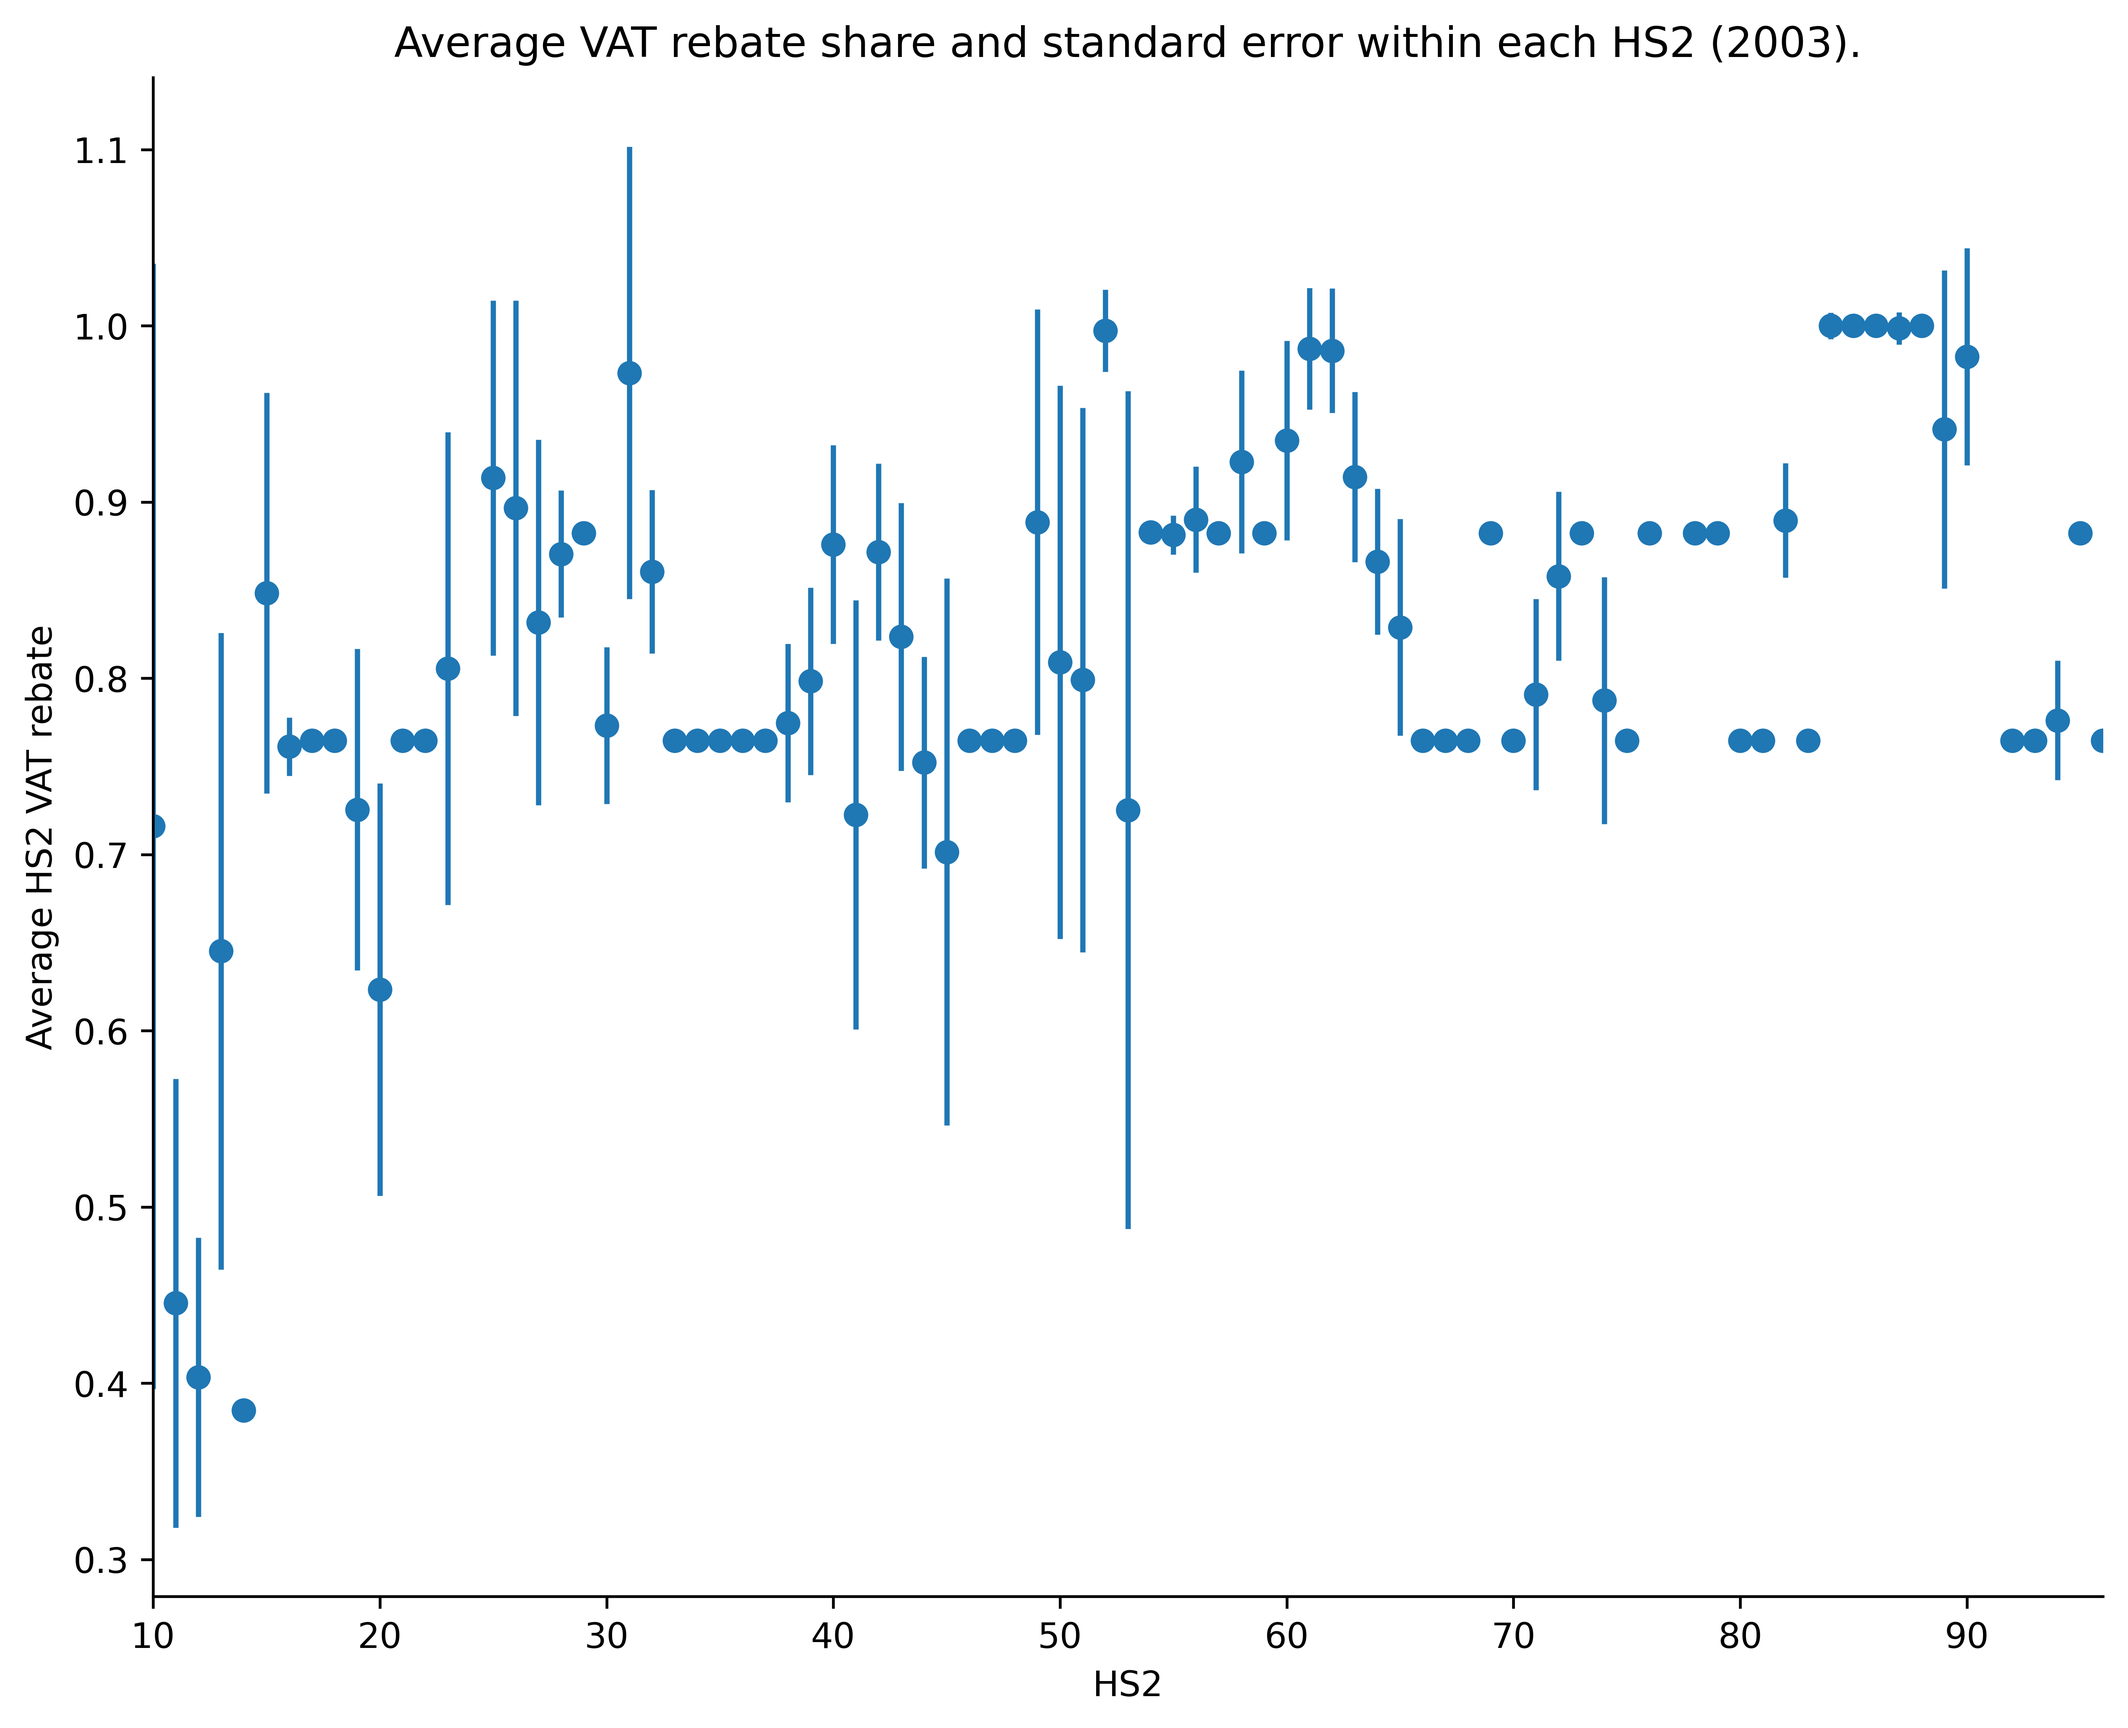
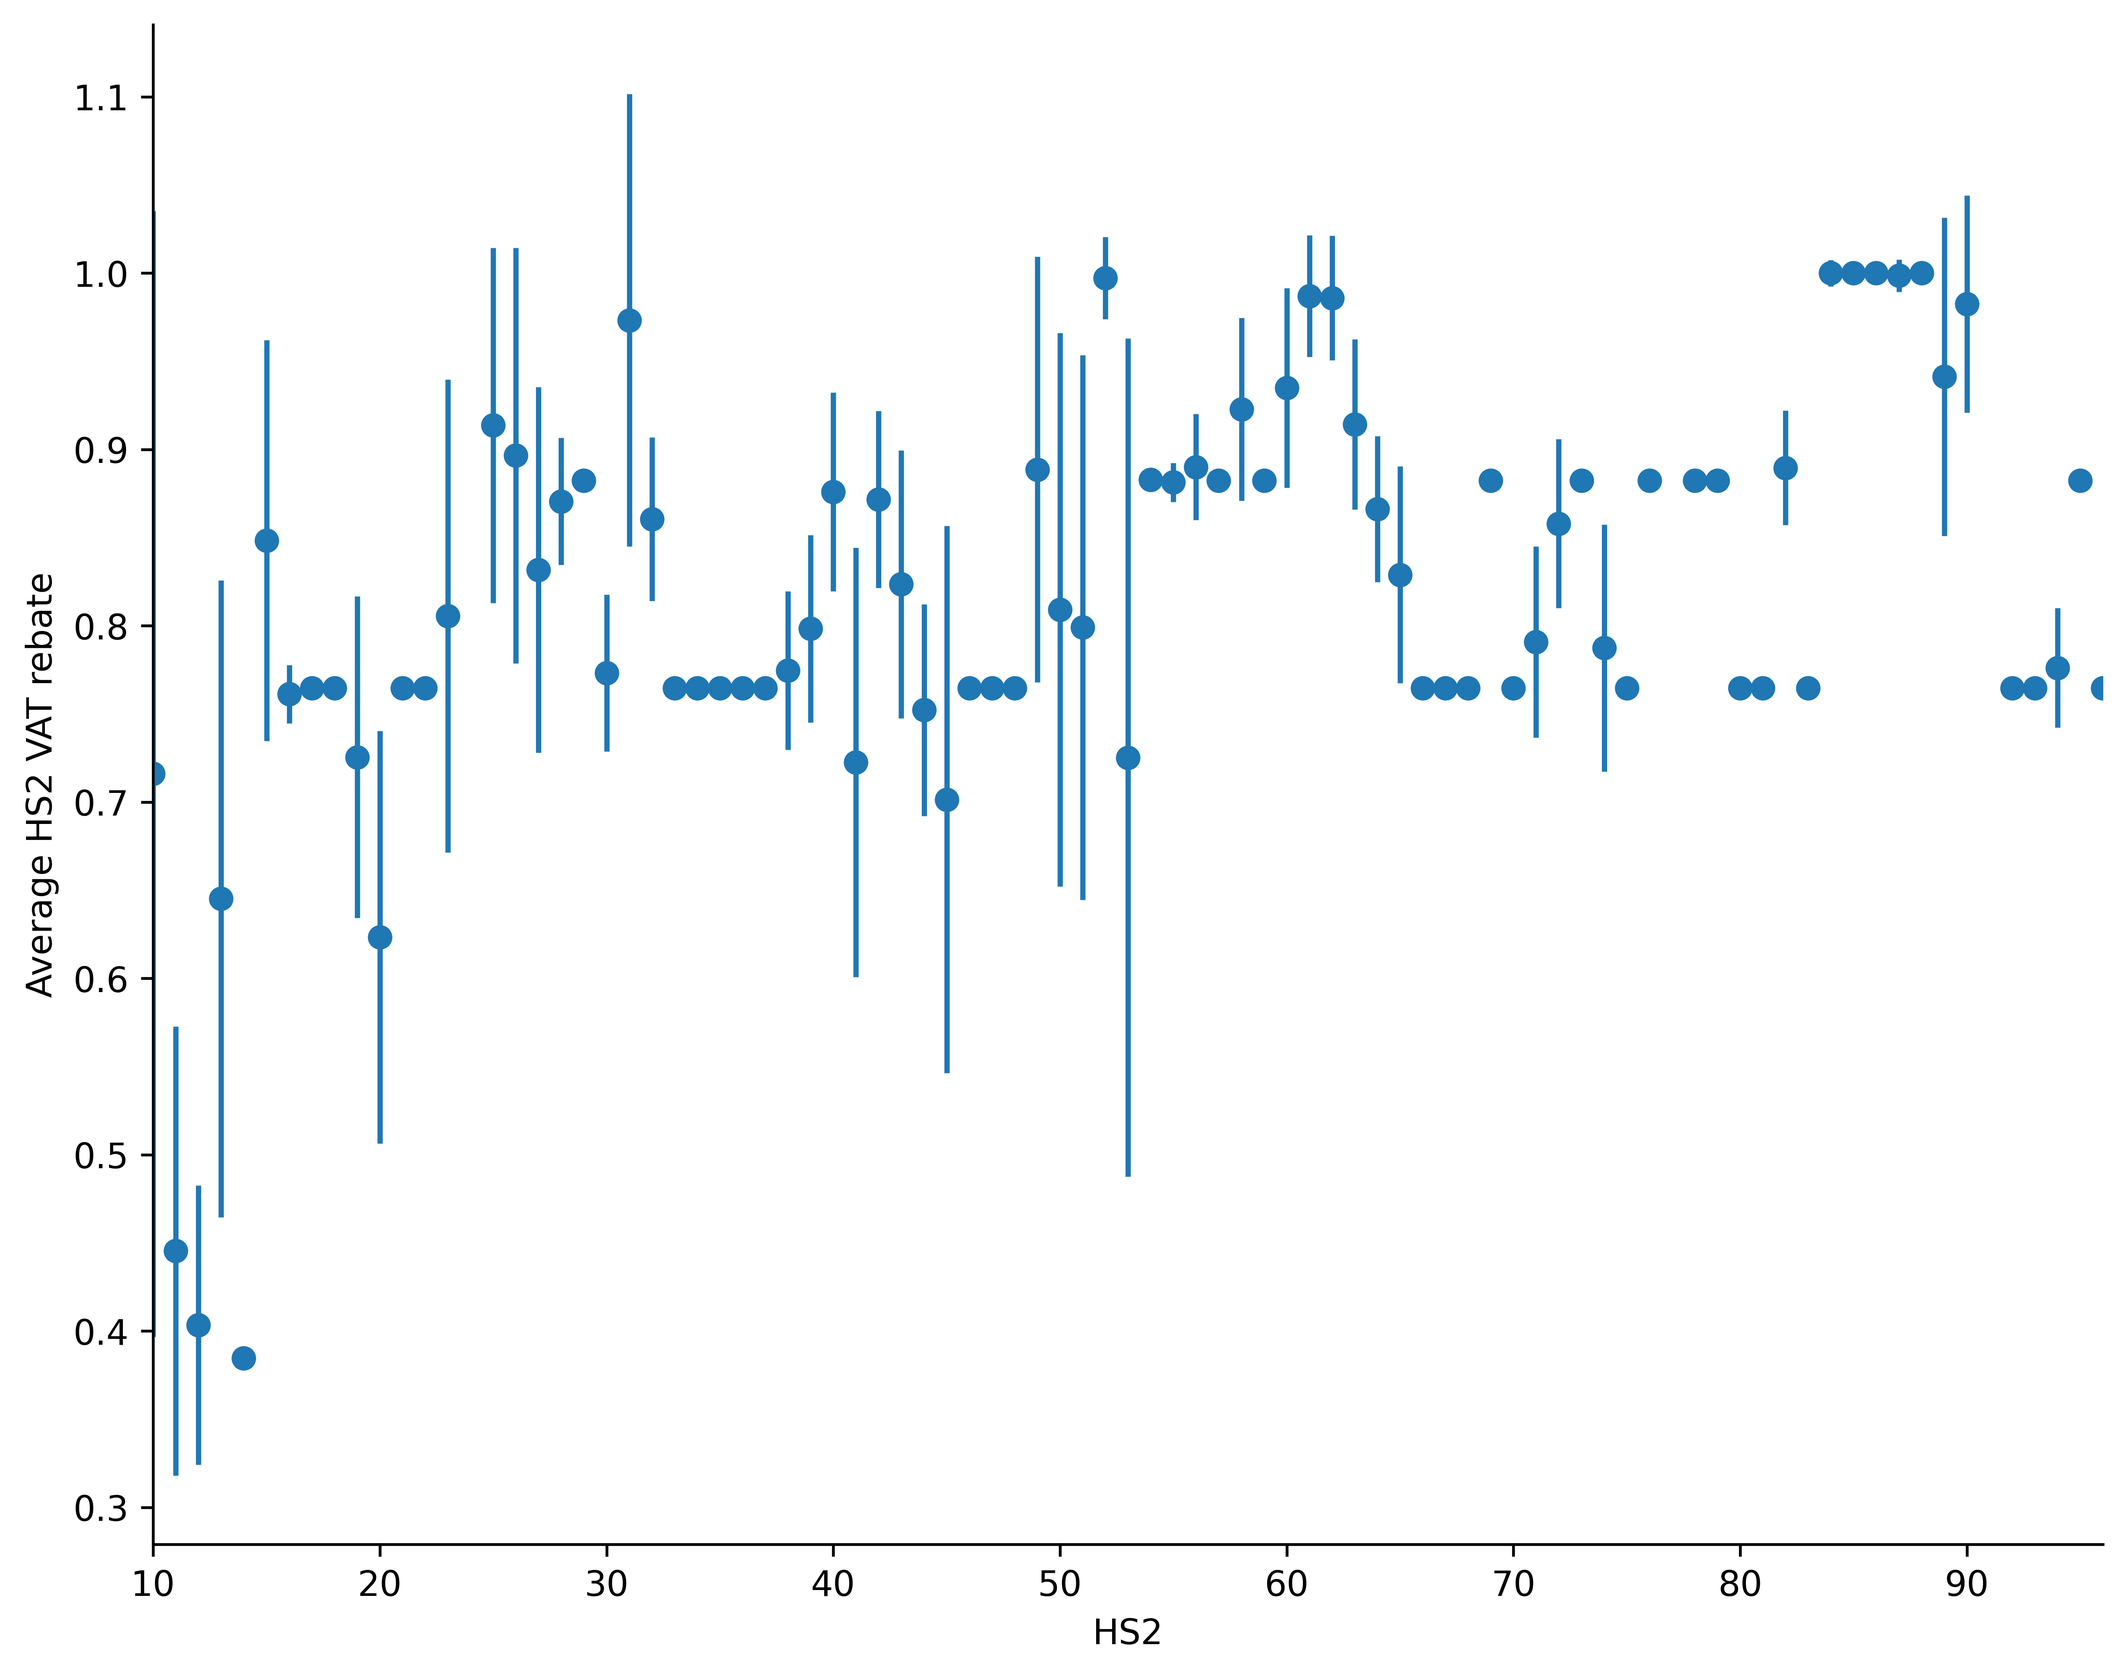
remove title figure 1
272_VAT_rebate_quality

diff --git a/02_data_analysis/02_statistical_tables/00_final_publishable_tables_figures.md b/02_data_analysis/02_statistical_tables/00_final_publishable_tables_figures.md
@@ -10,9 +10,9 @@ jupyter:
   kernel_info:
     name: python3
   kernelspec:
-    display_name: SoS
-    language: sos
-    name: sos
+    display_name: Python 3
+    language: python
+    name: python3
 ---
 
 <!-- #region kernel="SoS" -->
@@ -66,7 +66,7 @@ kandhelwal_quality
 # Connexion server
 <!-- #endregion -->
 
-```sos kernel="python3"
+```python kernel="python3"
 from awsPy.aws_authorization import aws_connector
 from awsPy.aws_s3 import service_s3
 from awsPy.aws_glue import service_glue
@@ -89,7 +89,7 @@ bucket = 'datalake-london'
 path_cred = "{0}/creds/{1}".format(parent_path, name_credential)
 ```
 
-```sos kernel="python3"
+```python kernel="python3"
 con = aws_connector.aws_instantiate(credential = path_cred,
                                        region = region)
 client= con.client_boto()
@@ -98,7 +98,7 @@ s3 = service_s3.connect_S3(client = client,
 glue = service_glue.connect_glue(client = client) 
 ```
 
-```sos kernel="python3"
+```python kernel="python3"
 pandas_setting = True
 if pandas_setting:
     #cm = sns.light_palette("green", as_cmap=True)
@@ -106,7 +106,7 @@ if pandas_setting:
     pd.set_option('display.max_colwidth', None)
 ```
 
-```sos kernel="python3" nteract={"transient": {"deleting": false}}
+```python kernel="python3" nteract={"transient": {"deleting": false}}
 os.environ['KMP_DUPLICATE_LIB_OK']='True'
 
 ```
@@ -115,7 +115,7 @@ os.environ['KMP_DUPLICATE_LIB_OK']='True'
 filter data: Need to keep only same product-city-destination by regime
 <!-- #endregion -->
 
-```sos kernel="python3"
+```python kernel="python3"
 query = """
 SELECT 
   *
@@ -160,11 +160,11 @@ df_unique = s3.run_query(
 )
 ```
 
-```sos kernel="python3"
+```python kernel="python3"
 list_to_keep = list(df_unique['hs6'].astype(str).unique())
 ```
 
-```sos kernel="python3"
+```python kernel="python3"
 len(list_to_keep)
 ```
 
@@ -200,12 +200,12 @@ ggsave("violin.png")
 ```
 <!-- #endregion -->
 
-```sos kernel="python3"
+```python kernel="python3"
 db = 'chinese_trade'
 table = 'china_vat_quality'
 ```
 
-```sos kernel="python3" nteract={"transient": {"deleting": false}}
+```python kernel="python3" nteract={"transient": {"deleting": false}}
 query = """
 WITH temp AS (
 SELECT distinct(hs6),  hs2, lag_vat_reb_m, lag_vat_m
@@ -236,15 +236,15 @@ df = (s3.run_query(
 df.head()        
 ```
 
-```sos kernel="python3"
+```python kernel="python3"
 df.shape
 ```
 
-```sos kernel="python3"
+```python kernel="python3"
 df.sort_values(by =['std']).loc[lambda x: x['std'].isin([0])].count()/df.shape[0]
 ```
 
-```sos kernel="python3"
+```python kernel="python3"
 fig, ax = plt.subplots(figsize=(10, 8))
 ax.scatter(df['hs2'], df['share_rebate'], label = 'blah')
 ax.errorbar(df['hs2'], df['share_rebate'], yerr = df['std'], xerr = None, ls='none') 
@@ -254,7 +254,7 @@ ax.spines['top'].set_visible(False)
 ax.set_xlim(df['hs2'].min(), df['hs2'].max())
 plt.xlabel('HS2')
 plt.ylabel('Average HS2 VAT rebate')
-plt.title('Average VAT rebate share and standard error within each HS2 (2003).')
+#plt.title('Average VAT rebate share and standard error within each HS2 (2003).')
 plt.savefig("Figures/fig_1.png",
             bbox_inches='tight',
             dpi=600)
@@ -286,7 +286,7 @@ ggplot(violin, aes(x=share_rebate)) + geom_density(aes(group=t, colour=t, fill=t
 ```
 <!-- #endregion -->
 
-```sos kernel="python3"
+```python kernel="python3"
 query = """
 WITH temp AS (
 SELECT distinct(hs6), year, lag_vat_reb_m/lag_vat_m as share_rebate
@@ -310,11 +310,11 @@ df = (s3.run_query(
 df.head()
 ```
 
-```sos kernel="python3"
+```python kernel="python3"
 import seaborn as sns
 ```
 
-```sos kernel="python3"
+```python kernel="python3"
 sns.kdeplot(
    data=df, x="share_rebate", hue="year",
    fill=True, common_norm=False, palette="crest",
@@ -326,7 +326,7 @@ sns.kdeplot(
 Create a table
 <!-- #endregion -->
 
-```sos kernel="python3"
+```python kernel="python3"
 df_latex = (
     pd.concat(
     [
@@ -351,17 +351,17 @@ df_latex = (
 )
 ```
 
-```sos kernel="python3"
+```python kernel="python3"
 df_latex
 ```
 
-```sos kernel="python3"
+```python kernel="python3"
 import tex2pix
 from PyPDF2 import PdfFileMerger
 from wand.image import Image as WImage
 ```
 
-```sos kernel="python3"
+```python kernel="python3"
 folder = 'Tables'
 table_number = 1
 title = 'Distribution of unique rebate share at the HS6 product level'
@@ -411,7 +411,7 @@ display(img)
 ![image.png](attachment:9cfb186e-d443-4755-abc9-d76a965bb18f.png)
 <!-- #endregion -->
 
-```sos kernel="SoS"
+```python kernel="SoS"
 query = """
 SELECT * , vat_reb_m / vat_m as refund
 FROM "chinese_trade"."hs6_china_vat_rebate"
@@ -433,7 +433,7 @@ df = s3.run_query(
 )
 ```
 
-```sos kernel="SoS"
+```python kernel="SoS"
 (
     df
     .loc[lambda x: x['year'] <= 2010]
@@ -474,7 +474,7 @@ df = s3.run_query(
 )
 ```
 
-```sos kernel="SoS"
+```python kernel="SoS"
 id_ = 940190
 query = """
 SELECT year, regime, AVG(kandhelwal_quality) as kandhelwal_quality
@@ -520,7 +520,7 @@ ax2.set_ylabel('VAT Refund', color='b')
 plt.show()
 ```
 
-```sos kernel="SoS"
+```python kernel="SoS"
 sns.lmplot(x="refund", 
            y="kandhelwal_quality", 
            hue="regime",
@@ -536,7 +536,7 @@ plt.ylabel("Product quality")
 # Generate reports
 <!-- #endregion -->
 
-```sos kernel="python3" nteract={"transient": {"deleting": false}} outputExpanded=false
+```python kernel="python3" nteract={"transient": {"deleting": false}} outputExpanded=false
 import os, time, shutil, urllib, ipykernel, json
 from pathlib import Path
 from notebook import notebookapp
@@ -548,16 +548,16 @@ import make_toc
 import create_report
 ```
 
-```sos kernel="python3"
+```python kernel="python3"
 name_json = 'parameters_ETL_VAT_rebate_quality_china.json'
 path_json = os.path.join(str(Path(path).parent.parent), 'utils',name_json)
 ```
 
-```sos kernel="python3" nteract={"transient": {"deleting": false}} outputExpanded=false
+```python kernel="python3" nteract={"transient": {"deleting": false}} outputExpanded=false
 create_report.create_report(extension = "html", keep_code = False, notebookname = "00_final_publishable_tables_figures.ipynb")
 ```
 
-```sos kernel="python3"
+```python kernel="python3"
 ### Update TOC in Github
 for p in [parent_path,
           str(Path(path).parent),
